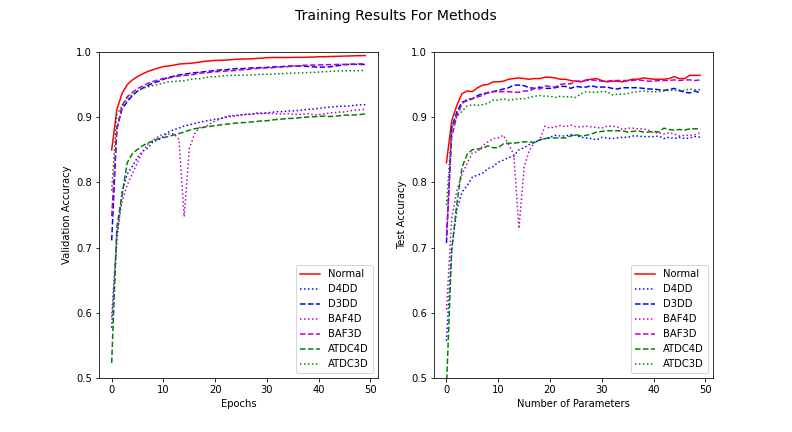
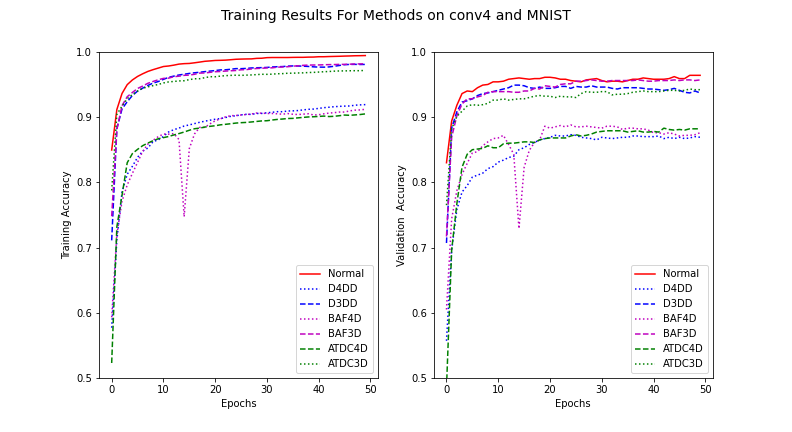
pic

diff --git a/TensorizedTrainingMethods/ApplyingCNN/MNIST/Plot_all_methods_on_mnist_conv4.py b/TensorizedTrainingMethods/ApplyingCNN/MNIST/Plot_all_methods_on_mnist_conv4.py
@@ -33,11 +33,11 @@ ax1.legend(['Normal', 'D4DD' ,'D3DD' ,'BAF4D','BAF3D','ATDC4D','ATDC3D'], loc = 
 ax2.legend(['Normal', 'D4DD' ,'D3DD' ,'BAF4D','BAF3D','ATDC4D','ATDC3D'], loc = 'lower right')
 ax1.set_xlabel('Epochs')
 ax1.set_ylim([0.5,1])
-ax1.set_ylabel('Validation Accuracy')
-ax2.set_ylabel('Test Accuracy')
-ax2.set_xlabel('Number of Parameters')
+ax1.set_ylabel('Training Accuracy')
+ax2.set_ylabel('Validation  Accuracy')
+ax2.set_xlabel('Epochs')
 ax2.set_ylim([0.5,1])
-plt.suptitle('Training Results For Methods', fontsize=14)
+plt.suptitle('Training Results For Methods on conv4 and MNIST', fontsize=14)
 
 plt.savefig('Plot_all_methods_on_mnist_conv4.png')
 plt.show()
